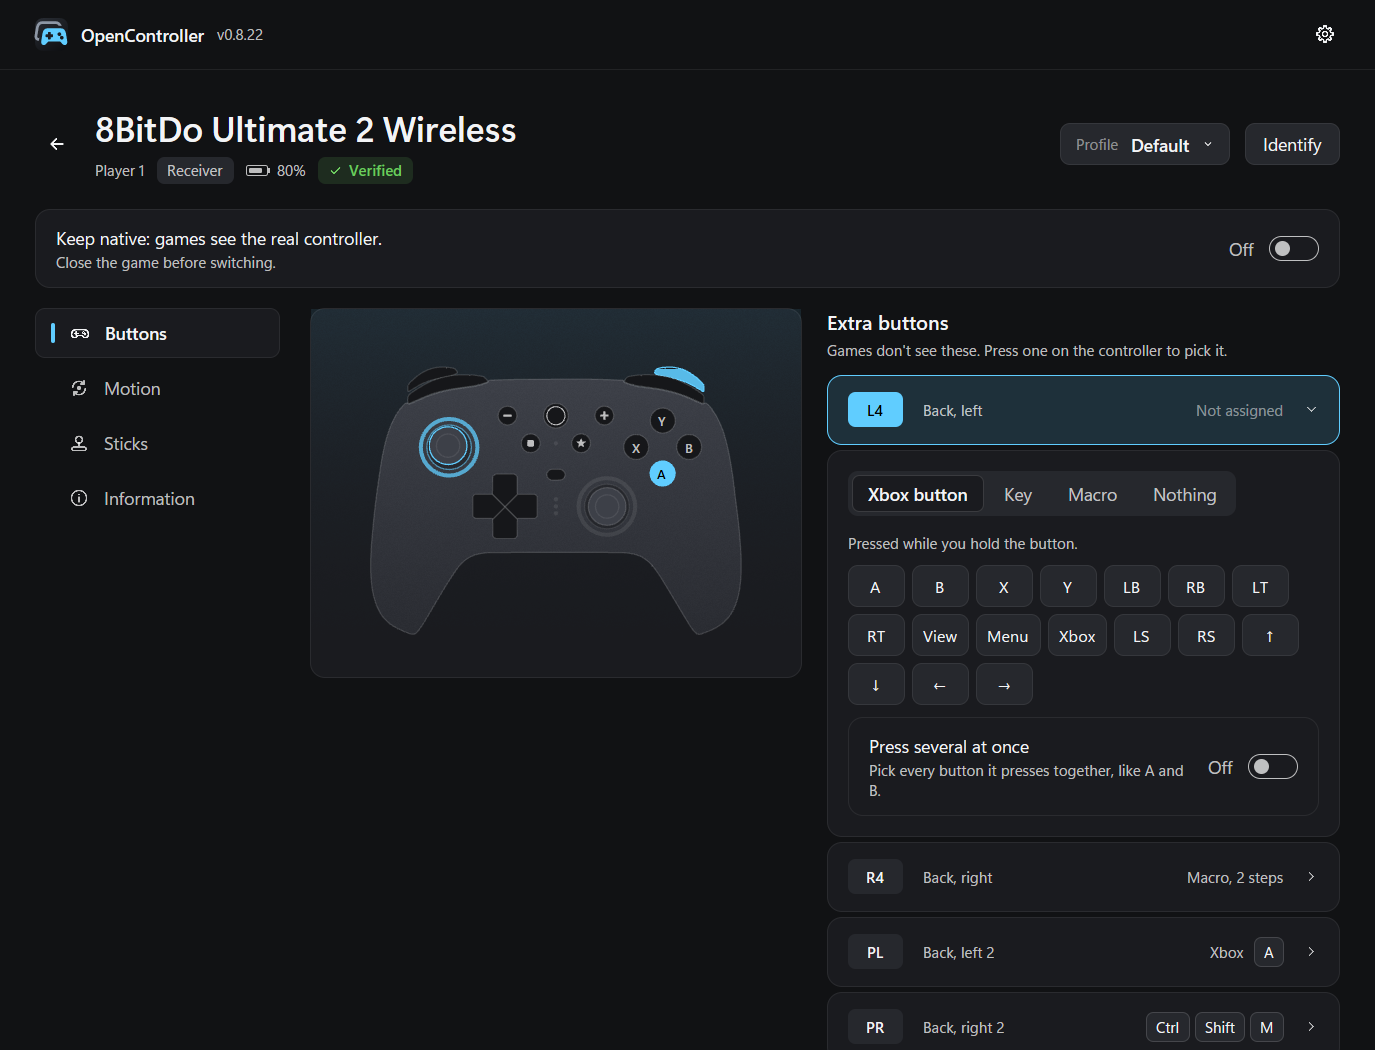
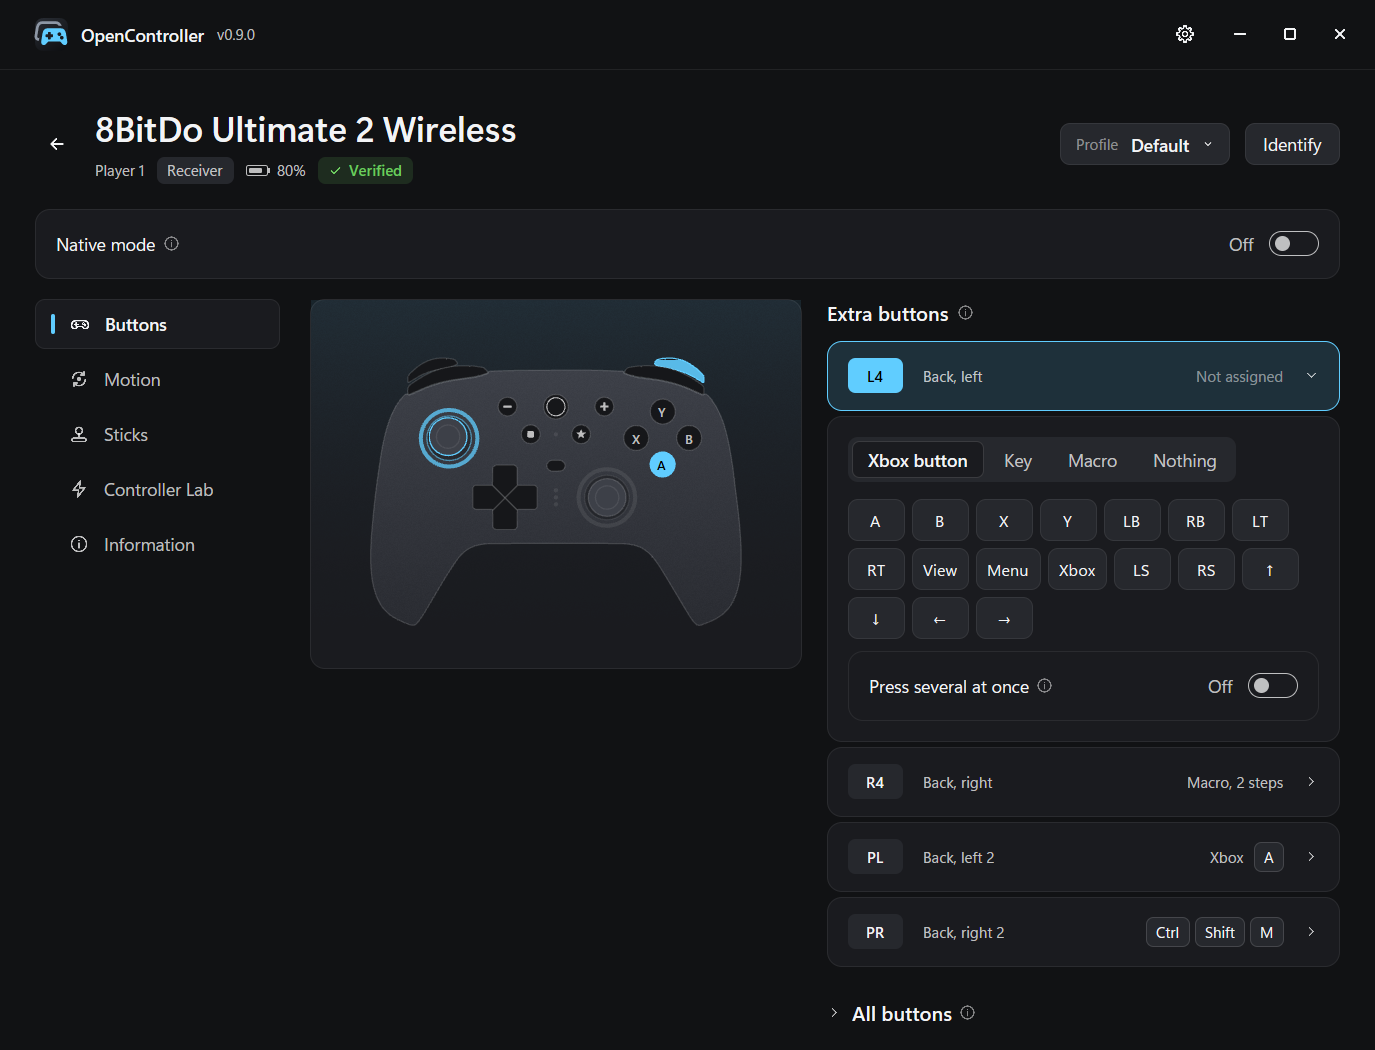
Release 0.9.0

diff --git a/README.md b/README.md
@@ -14,7 +14,7 @@ It works with the several hundred controllers SDL knows and keeps out of the way
 controller and the game. Xbox controllers are left alone, since games already read them. The
 window is a separate program that only exists while it is open.
 
-OpenController is open source (MIT) and in beta, at version 0.8.22. With so many controllers out
+OpenController is open source (MIT) and in beta, at version 0.9.0. With so many controllers out
 there, some will not work as they should yet and some features are still missing, so every report
 helps. If your controller is not recognised, a button does nothing or anything else goes wrong,
 feel free to [open an issue](https://github.com/Brunovncs/OpenController/issues); see
@@ -32,8 +32,8 @@ with its SHA-256 next to it.
 
 ### Windows
 
-Download `open-controller-0.8.22-windows-x64-setup.exe` (on an ARM PC,
-`open-controller-0.8.22-windows-arm64-setup.exe`) and run it. It installs for your user only,
+Download `open-controller-0.9.0-windows-x64-setup.exe` (on an ARM PC,
+`open-controller-0.9.0-windows-arm64-setup.exe`) and run it. It installs for your user only,
 without administrator rights, adds OpenController to the Start menu and to Apps in Settings
 (where it uninstalls), and starts it. Run it again over an existing installation, or let the app
 do it, and it updates in place: the running copy quits first, and your settings, kept in
@@ -41,8 +41,8 @@ do it, and it updates in place: the running copy quits first, and your settings,
 too. The installer is not code-signed, so
 SmartScreen warns the first time ("More info", then "Run anyway").
 
-To run it without installing, download `open-controller-0.8.22-windows-x64.zip` (or
-`open-controller-0.8.22-windows-arm64.zip`), extract it anywhere and run `open-controller.exe`.
+To run it without installing, download `open-controller-0.9.0-windows-x64.zip` (or
+`open-controller-0.9.0-windows-arm64.zip`), extract it anywhere and run `open-controller.exe`.
 The programs are not code-signed yet, so Windows SmartScreen warns on the first start ("More info", then "Run anyway"). Neither the app nor its installation needs administrator
 rights.
 
@@ -74,7 +74,7 @@ Windows" and "Quit". Closing the window does not stop anything.
 
 ### Linux
 
-Download `open-controller-0.8.22-linux-x64.tar.gz` (or `open-controller-0.8.22-linux-arm64.tar.gz`),
+Download `open-controller-0.9.0-linux-x64.tar.gz` (or `open-controller-0.9.0-linux-arm64.tar.gz`),
 extract it and run `./install.sh`. The programs are built on Ubuntu 22.04 and need glibc 2.35 or
 newer, as in Ubuntu 22.04, Debian 12 and Fedora 36 and later; `ldd --version` shows yours.
 
@@ -103,7 +103,7 @@ controller keeps moving the pointer, as it does without OpenController.
 
 ### macOS
 
-Download `open-controller-0.8.22-macos-universal.zip`, which runs on Apple silicon and Intel, and
+Download `open-controller-0.9.0-macos-universal.zip`, which runs on Apple silicon and Intel, and
 move OpenController to Applications. It is not notarised, so macOS refuses to open it the first
 time. Open it once, then go to System Settings, Privacy & Security, and click Open Anyway.
 
@@ -266,7 +266,7 @@ document about these machines and has not been tried on one yet.
 
 ### Keeping a controller native
 
-"Keep native" on a controller's page takes OpenController out of the way for that controller. No
+Native mode, on a controller's page, takes OpenController out of the way for that controller. No
 Xbox controller is made for it, it is not hidden, and nothing is written to it: no light, no
 player number, no rumble. Games see the real controller, so a game that knows a DualSense gets
 its button prompts, adaptive triggers and, over the cable, haptic feedback. This is also the way
@@ -279,58 +279,34 @@ already opened it keeps it after it goes back to Xbox, so it would read it twice
 without a serial number shares its settings with every controller of its model, and so does this
 choice. With "Hide original controllers" off, native only removes the Xbox controller.
 
-The Light page can explicitly opt into light-bar control while input stays native. This is off
-by default; a game that also sets the light can compete with it. Custom colours accept a full
-`#RRGGBB` value as well as the colour swatches.
+The light is left alone too, unless "Control the light in native mode" is turned on in the Light
+section. A game that also sets the light may change it back.
 
-The preview follows both touchpad contacts, including movement without clicking, with
-frame-timed smoothing and a short fading trail in the focused detailed preview. Unfocused
-windows and reduced-motion mode keep direct feedback instead; losing focus clears old trails.
-Both contacts and trails follow the configured LED colour, with the theme accent as a fallback
-when the LED colour is black or off. This only affects drawing, never controller input. On Windows,
-the DualSense microphone indicator shows the actual mute state of the default recording device.
-Its separate, opt-in mic-button switch toggles that device; another binding for the button takes
-priority. Bluetooth may use the PC microphone, since it need not expose a DualSense recording
-device. This reads the endpoint's mute flag and never records audio.
+### More on a controller's page
 
-Windows uses one application-drawn title bar with the usual window controls.
+A colour for the light can also be typed as a code, like `#7800FF`. Touching the touchpad shows
+each finger on the drawing, in the light bar's colour, and pressing it turns them dark so they
+still show.
+
+On Windows, the mic button of a DualSense can mute the PC's default microphone once that is turned
+on under Buttons. Another assignment for that button comes first. OpenController only reads and
+flips the mute switch: it never records.
 
 ### Controller Lab
 
-The controller's Lab page has seven optional tools, saved with each profile and off by default:
+The Lab page has optional tools, saved with each profile and off until turned on. It only shows
+the ones that work with the controller in front of it.
 
-- **Trigger Lab:** independent DualSense/Edge L2 and R2 resistance, vibration and trigger-break
-  effects. Adjust the start/end zones, force and frequency, try them for five seconds, stop
-  them immediately or opt into persistent profile effects. A trial restores the profile after
-  its timeout; disconnect and normal exit clear effects owned by OpenController. Output goes
-  through SDL, including USB/Bluetooth framing and checksums.
-- **Touchpad mouse (Windows):** relative movement, tap-to-click, physical left/right clicks,
-  two-finger scrolling and a trackball mode with adjustable inertia decay. This is shared
-  desktop input; disable it in the Lab when a game should handle the touchpad itself.
-- **Flick Stick (Windows, mapping mode):** the right stick's direction starts a turn, rotation
-  around its rim continues it, and the gyro can provide fine aim. Counts per full turn, flick
-  duration, activation threshold and gyro sensitivity are adjustable. Calibrate counts against
-  the game's mouse sensitivity. The virtual right stick is consumed while this is enabled.
-- **Trigger mapping (mapping mode):** Hair Trigger uses short pull/release reversals; two-stage
-  mapping assigns buttons to soft/full pulls; Hip Fire delays the soft action so a quick full
-  pull can bypass it. The chosen buttons also use their existing keyboard/gamepad assignments.
-- **Button debounce (mapping mode):** require a stable press/release for 0–100 ms before output.
-  Timers settle without another controller report. Zero preserves the original latency.
-- **DSU motion:** a single loopback-only UDP server at `127.0.0.1:26760`, implementing Cemuhook
-  protocol 1001 for up to four enabled controllers, subscriptions and their expiry, CRC32,
-  touch, buttons, gyro in degrees/second and acceleration in g. Add a DSU controller in the
-  emulator and enable motion. Binding failures and client counts are shown in the Lab.
-- **Dynamic lighting:** rainbow, breathing, rumble-linked colour and optional idle fade. These
-  respect the Light page's brightness and native-mode output opt-in, and stop when lights are
-  turned off. The drawing and touch feedback follow the output colour.
+Trigger effects give a DualSense's L2 and R2 resistance, vibration or a click, with a five second
+test before keeping them. On Windows, the touchpad can move the mouse, as a mouse or a trackball,
+and Flick Stick turns the camera with the right stick as a mouse would, with the gyro for fine aim
+(set it up per game, with the game's mouse acceleration off). Trigger modes add Hair Trigger, two
+stages with a button each, and Hip Fire. The button filter ignores the double presses of a worn
+button, at the cost of the same delay on every press. Emulators like Cemu and Dolphin can read the
+motion through a DSU server on `127.0.0.1:26760`, which only this PC can reach. Light effects make
+the light bar cycle colours, breathe, follow the rumble or dim when the controller sits still.
 
-Native input stays native: only explicitly enabled desktop, sensor-sharing and hardware-effect
-tools run there. Flick Stick, trigger remapping and debounce need mapping mode. Use matching
-resident/UI binaries (IPC protocol 2). The input loop does not wait on UDP clients or mouse output.
-
-Protocol references: [SDL's gamepad effect example](https://github.com/libsdl-org/SDL/blob/main/test/testcontroller.c),
-[DualSense trigger encoding](https://gist.github.com/Nielk1/6d54cc2c00d2201ccb8c2720ad7538db),
-and the [Cemuhook protocol](https://v1993.github.io/cemuhook-protocol/).
+Flick Stick, trigger modes and the button filter work while a controller is mapped, not native.
 
 ## Supported controllers
 

diff --git a/CHANGELOG.md b/CHANGELOG.md
@@ -3,6 +3,25 @@
 Each release's section here is its release notes on GitHub. It says what changed for someone who
 plays with OpenController, and whether settings carry over.
 
+## 0.9.0
+
+Each controller has a new Lab page with optional tools, all off until you turn them on. A
+DualSense's triggers can get resistance, vibration or a click. On Windows, the touchpad can move
+the mouse, and Flick Stick turns the camera with the right stick, with the gyro for fine aim. The
+triggers can work as Hair Trigger, in two stages or as Hip Fire, a filter can ignore the double
+presses of a worn button, emulators like Cemu can read the motion over DSU, and the light bar can
+cycle colours, breathe or follow the rumble. Thanks to slkass, who built all of it.
+
+On Windows, a DualSense's mic button can now mute the PC's microphone. The light can take a colour
+typed as a code, and can be set while a controller is kept native.
+
+Touching the touchpad now shows your fingers on the controller's drawing.
+
+The window got simpler: the long explanations under each setting moved behind a small info mark,
+and on Windows it has its own title bar. The DualShock 4's face buttons are drawn bigger.
+
+Settings carry over.
+
 ## 0.8.22
 
 The ShanWan pad that calls itself Twin USB Joystick, id 2563:0555, now works as a controller.
